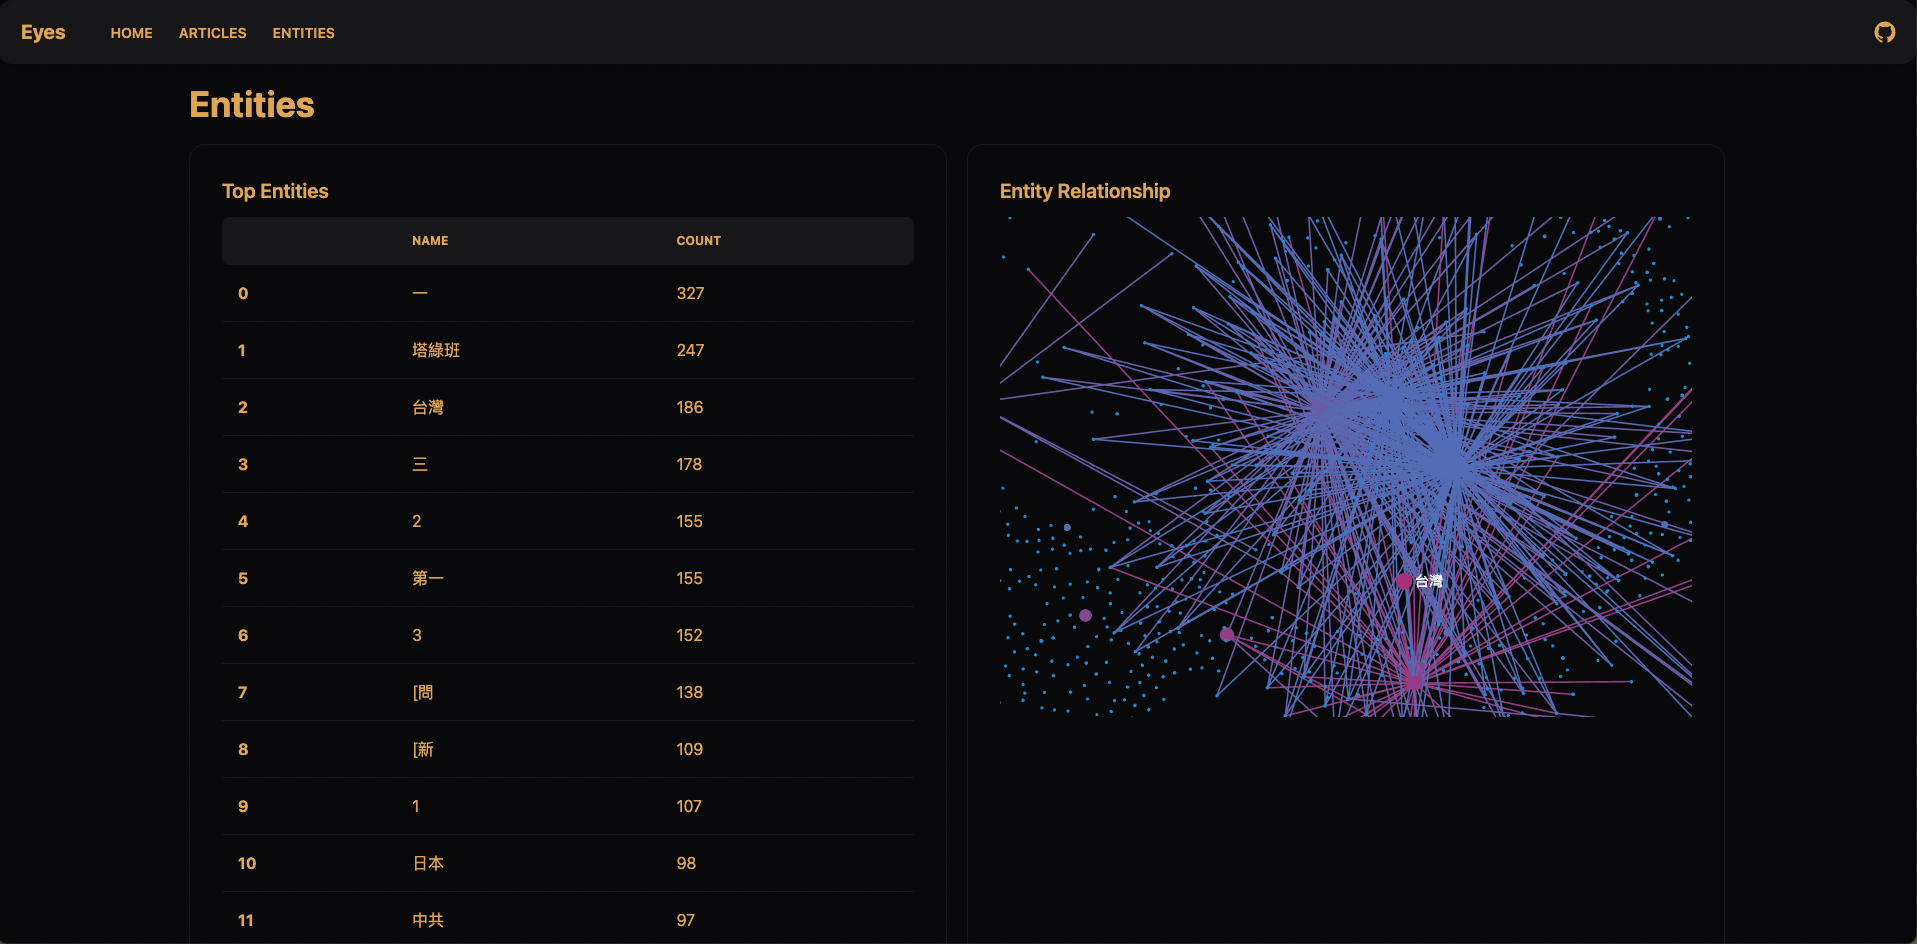
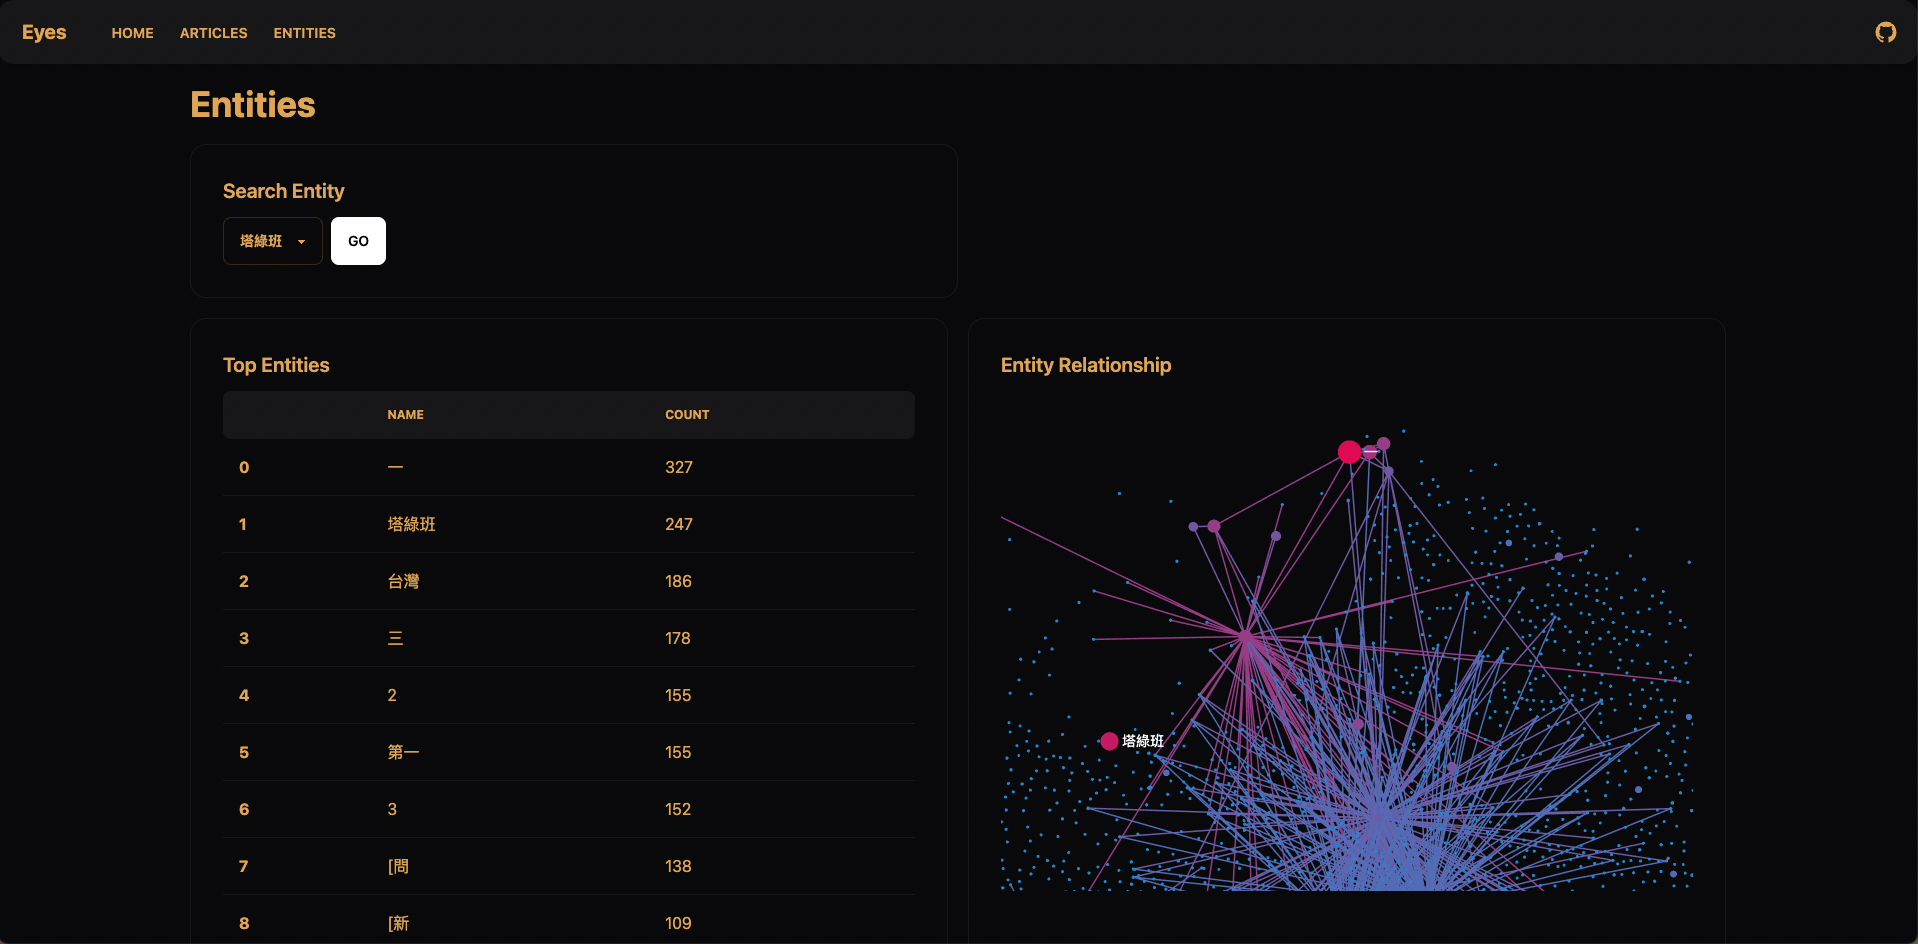
Add entities menu

diff --git a/web/src/pages/Entities.jsx b/web/src/pages/Entities.jsx
@@ -1,11 +1,15 @@
 import { useDispatch, useSelector } from "react-redux";
 import { useMount } from "react-use";
+import { Link } from "react-router-dom";
 
 import { sagaActions } from "../sagas";
+import { setCurrentEntity } from "../reducers/entities";
 
 import Spinner from "../components/Spinner";
 
 import NetworkChart from "../components/NetworkChart";
+
+const MAX_ENTITIES = 10;
 
 const columns = [
   {
@@ -40,6 +44,29 @@ const createTableData = (data) => {
   );
 };
 
+const EntitiesMenu = (props) => {
+  const { entities, handleOnEntitySelect, currentEntity } = props;
+  return (
+    <>
+      <div className="form-control">
+        <div className="flex space-x-2">
+          <select
+            className="select select-bordered"
+            onChange={(e) => handleOnEntitySelect(e.target.value)}
+          >
+            {entities.map((ent) => (
+              <option>{ent}</option>
+            ))}
+          </select>
+          <Link to={`/entity/${currentEntity}`} className="btn btn-primary">
+            Go
+          </Link>
+        </div>
+      </div>
+    </>
+  );
+};
+
 const Entities = (props) => {
   const allStatsEntitySummaries = useSelector(
     (state) => state.entities.allStatsEntitySummaries
@@ -48,18 +75,34 @@ const Entities = (props) => {
   const requesting = useSelector((state) => state.entities.status.requesting);
   const nodes = useSelector((state) => state.entities.nodes);
   const edges = useSelector((state) => state.entities.edges);
+  const currentEntity = useSelector((state) => state.entities.currentEntity);
   const dispatch = useDispatch();
   useMount(() => {
     dispatch(sagaActions.requestAllStatsEntitySummaries({ limit: 100 }));
   });
+  const handleOnEntitySelect = (entity) => {
+    dispatch(setCurrentEntity(entity));
+  };
   return (
     <>
       <h1 className="font-bold text-4xl my-5">Entities</h1>
+      <div className="grid grid-cols-2 my-5">
+        <div className="card bordered">
+          <div className="card-body">
+            <div className="card-title">Search Entity</div>
+            <EntitiesMenu
+              entities={allStatsEntitySummaries.map((ent) => ent.name)}
+              handleOnEntitySelect={handleOnEntitySelect}
+              currentEntity={currentEntity}
+            />
+          </div>
+        </div>
+      </div>
       <div className="grid grid-cols-2 grid-flow-col h-128 gap-5">
         <div className="card bordered">
           <div className="card-body">
             <div className="card-title">Top Entities</div>
-            {createTableData(allStatsEntitySummaries)}
+            {createTableData(allStatsEntitySummaries.slice(0, MAX_ENTITIES))}
           </div>
         </div>
         <div className="card bordered">

diff --git a/web/src/reducers/entities.js b/web/src/reducers/entities.js
@@ -100,8 +100,7 @@ const entitiesSlice = createSlice({
       state.status.requesting = false;
     },
     setCurrentEntity: (state, action) => {
-      const { currentEntity } = action.payload;
-      state.currentEntity = currentEntity;
+      state.currentEntity = action.payload;
     },
   },
 });
